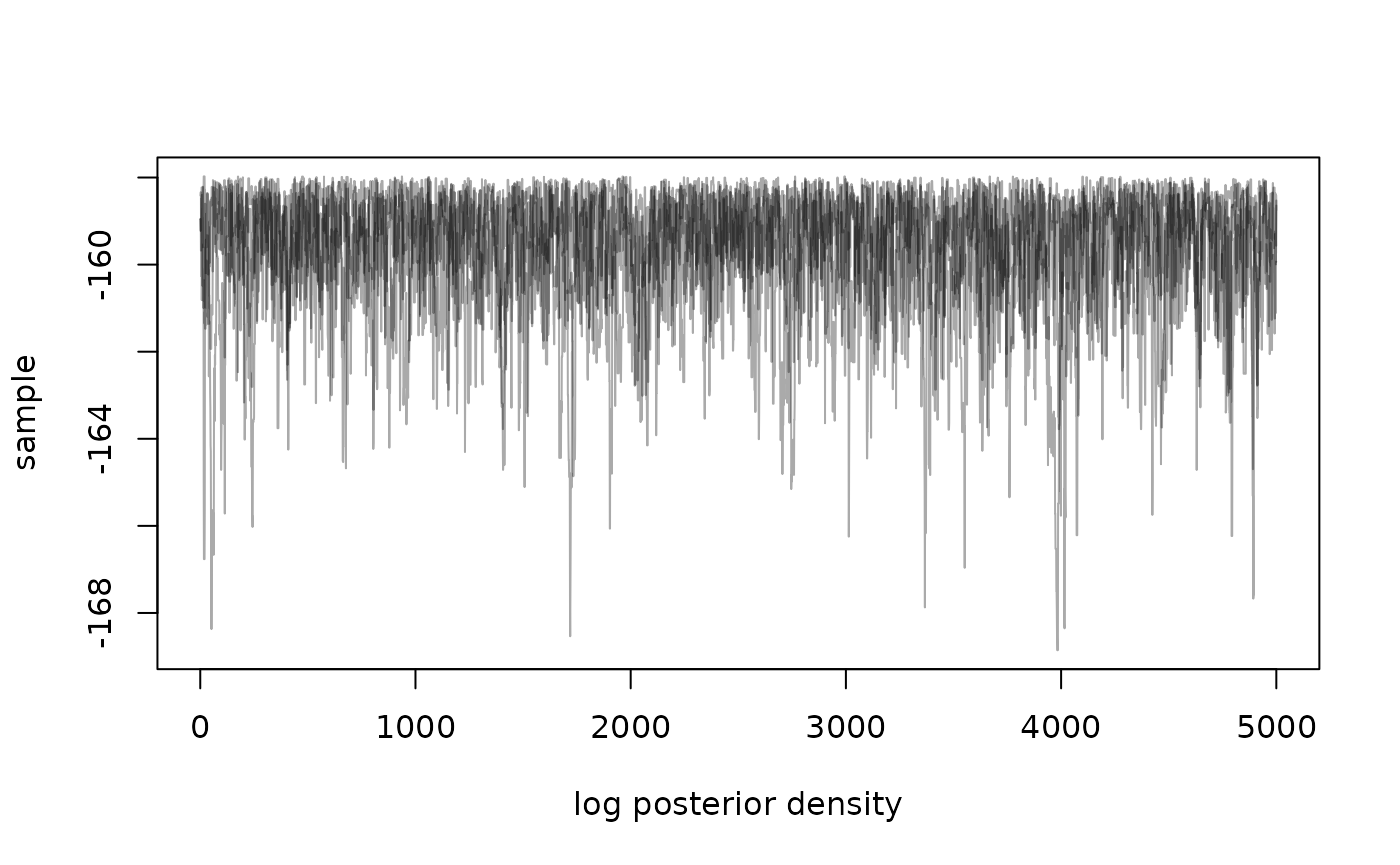
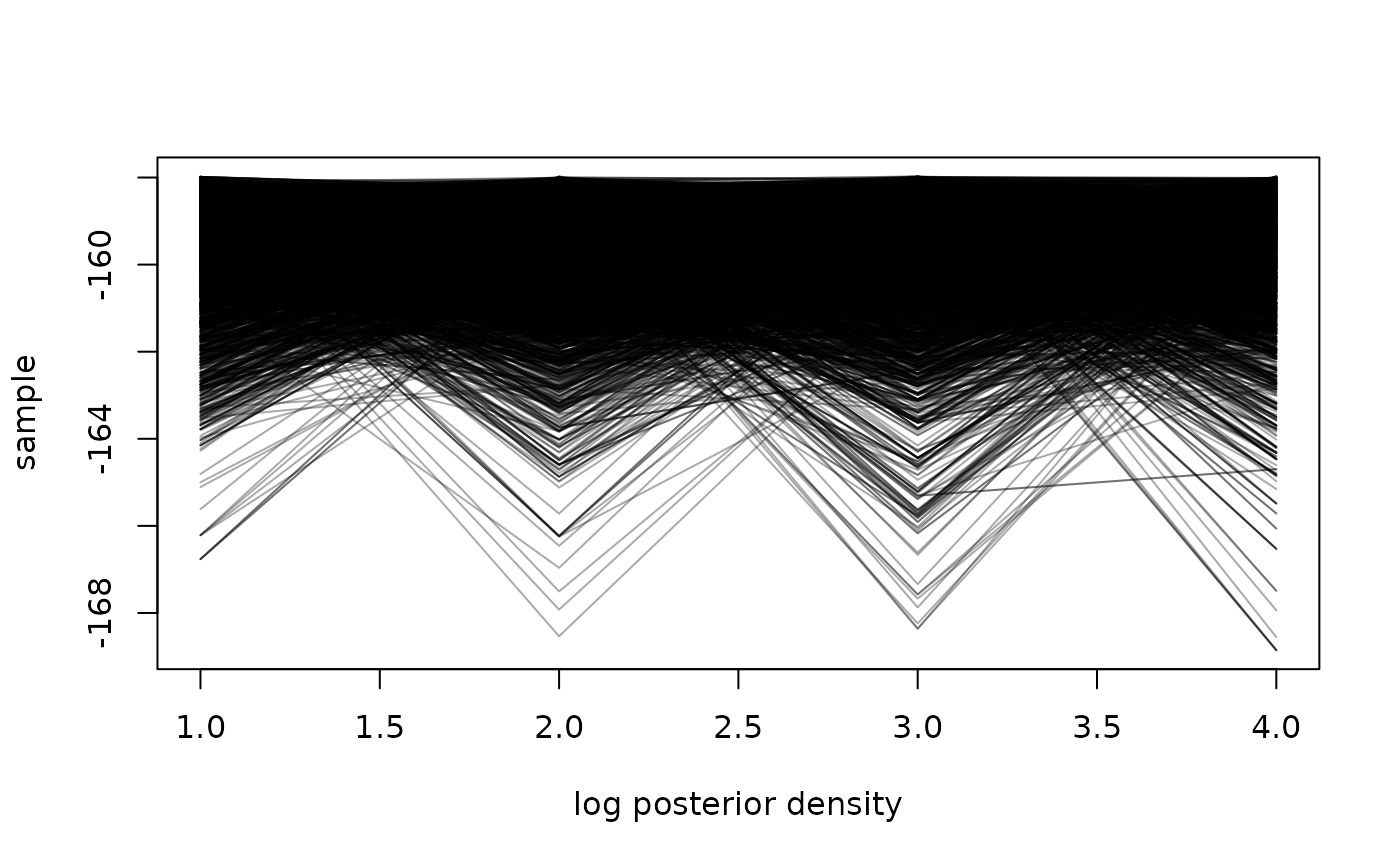
Deploying to gh-pages from @ mrc-ide/mcstate2@cd321ebf984bfb98e90d9a40ece8e2f18095e2ca 🚀

diff --git a/articles/mcstate2.html b/articles/mcstate2.html
@@ -211,17 +211,17 @@ this simple sampler converge quickly:</p>
 <p>We don’t yet have tools for working with the samples objects, but we
 can see the density over time easily enough:</p>
 <div class="sourceCode" id="cb8"><pre class="downlit sourceCode r">
-<code class="sourceCode R"><span><span class="fu"><a href="https://rdrr.io/r/graphics/matplot.html" class="external-link">matplot</a></span><span class="op">(</span><span class="fu"><a href="https://rdrr.io/r/base/matrix.html" class="external-link">matrix</a></span><span class="op">(</span><span class="va">samples</span><span class="op">$</span><span class="va">density</span>, ncol <span class="op">=</span> <span class="fl">4</span><span class="op">)</span>, type <span class="op">=</span> <span class="st">"l"</span>, lty <span class="op">=</span> <span class="fl">1</span>,</span>
+<code class="sourceCode R"><span><span class="fu"><a href="https://rdrr.io/r/graphics/matplot.html" class="external-link">matplot</a></span><span class="op">(</span><span class="fu"><a href="https://rdrr.io/r/base/t.html" class="external-link">t</a></span><span class="op">(</span><span class="va">samples</span><span class="op">$</span><span class="va">density</span><span class="op">)</span>, type <span class="op">=</span> <span class="st">"l"</span>, lty <span class="op">=</span> <span class="fl">1</span>,</span>
 <span>        xlab <span class="op">=</span> <span class="st">"log posterior density"</span>, ylab <span class="op">=</span> <span class="st">"sample"</span>, col <span class="op">=</span> <span class="st">"#00000055"</span><span class="op">)</span></span></code></pre></div>
 <p><img src="mcstate2_files/figure-html/unnamed-chunk-9-1.png" width="700"></p>
 <p>And plots of our estimated parameters:</p>
 <div class="sourceCode" id="cb9"><pre class="downlit sourceCode r">
 <code class="sourceCode R"><span><span class="fu"><a href="https://rdrr.io/r/graphics/par.html" class="external-link">par</a></span><span class="op">(</span>mfrow <span class="op">=</span> <span class="fu"><a href="https://rdrr.io/r/base/c.html" class="external-link">c</a></span><span class="op">(</span><span class="fl">1</span>, <span class="fl">3</span><span class="op">)</span><span class="op">)</span></span>
-<span><span class="fu"><a href="https://rdrr.io/r/graphics/plot.default.html" class="external-link">plot</a></span><span class="op">(</span><span class="fu"><a href="https://rdrr.io/r/stats/density.html" class="external-link">density</a></span><span class="op">(</span><span class="va">samples</span><span class="op">$</span><span class="va">pars</span><span class="op">[</span>, <span class="st">"a"</span><span class="op">]</span><span class="op">)</span>, main <span class="op">=</span> <span class="st">"a"</span><span class="op">)</span></span>
+<span><span class="fu"><a href="https://rdrr.io/r/graphics/plot.default.html" class="external-link">plot</a></span><span class="op">(</span><span class="fu"><a href="https://rdrr.io/r/stats/density.html" class="external-link">density</a></span><span class="op">(</span><span class="va">samples</span><span class="op">$</span><span class="va">pars</span><span class="op">[</span><span class="st">"a"</span>, , <span class="op">]</span><span class="op">)</span>, main <span class="op">=</span> <span class="st">"a"</span><span class="op">)</span></span>
 <span><span class="fu"><a href="https://rdrr.io/r/graphics/abline.html" class="external-link">abline</a></span><span class="op">(</span>v <span class="op">=</span> <span class="fl">114</span>, col <span class="op">=</span> <span class="st">"red"</span><span class="op">)</span></span>
-<span><span class="fu"><a href="https://rdrr.io/r/graphics/plot.default.html" class="external-link">plot</a></span><span class="op">(</span><span class="fu"><a href="https://rdrr.io/r/stats/density.html" class="external-link">density</a></span><span class="op">(</span><span class="va">samples</span><span class="op">$</span><span class="va">pars</span><span class="op">[</span>, <span class="st">"b"</span><span class="op">]</span><span class="op">)</span>, main <span class="op">=</span> <span class="st">"b"</span><span class="op">)</span></span>
+<span><span class="fu"><a href="https://rdrr.io/r/graphics/plot.default.html" class="external-link">plot</a></span><span class="op">(</span><span class="fu"><a href="https://rdrr.io/r/stats/density.html" class="external-link">density</a></span><span class="op">(</span><span class="va">samples</span><span class="op">$</span><span class="va">pars</span><span class="op">[</span><span class="st">"b"</span>, , <span class="op">]</span><span class="op">)</span>, main <span class="op">=</span> <span class="st">"b"</span><span class="op">)</span></span>
 <span><span class="fu"><a href="https://rdrr.io/r/graphics/abline.html" class="external-link">abline</a></span><span class="op">(</span>v <span class="op">=</span> <span class="fl">0.9</span>, col <span class="op">=</span> <span class="st">"red"</span><span class="op">)</span></span>
-<span><span class="fu"><a href="https://rdrr.io/r/graphics/plot.default.html" class="external-link">plot</a></span><span class="op">(</span><span class="fu"><a href="https://rdrr.io/r/stats/density.html" class="external-link">density</a></span><span class="op">(</span><span class="va">samples</span><span class="op">$</span><span class="va">pars</span><span class="op">[</span>, <span class="st">"sigma"</span><span class="op">]</span><span class="op">)</span>, main <span class="op">=</span> <span class="st">"sigma"</span><span class="op">)</span></span>
+<span><span class="fu"><a href="https://rdrr.io/r/graphics/plot.default.html" class="external-link">plot</a></span><span class="op">(</span><span class="fu"><a href="https://rdrr.io/r/stats/density.html" class="external-link">density</a></span><span class="op">(</span><span class="va">samples</span><span class="op">$</span><span class="va">pars</span><span class="op">[</span><span class="st">"sigma"</span>, , <span class="op">]</span><span class="op">)</span>, main <span class="op">=</span> <span class="st">"sigma"</span><span class="op">)</span></span>
 <span><span class="fu"><a href="https://rdrr.io/r/graphics/abline.html" class="external-link">abline</a></span><span class="op">(</span>v <span class="op">=</span> <span class="fl">3</span>, col <span class="op">=</span> <span class="st">"red"</span><span class="op">)</span></span></code></pre></div>
 <p><img src="mcstate2_files/figure-html/unnamed-chunk-10-1.png" width="700"></p>
 </div>

diff --git a/reference/mcstate_sample.html b/reference/mcstate_sample.html
@@ -138,7 +138,9 @@ chains (<code>n_steps * n_chains</code>)</p></li>
 <li><p><code>density</code>: A vector of model log densities, one per step (length
 <code>n_steps * n_chains</code>)</p></li>
 <li><p><code>initial</code>: A record of the initial conditions, a matrix with as
-many columns as you have parameters and <code>n_chains</code> rows</p></li>
+many rows as you have parameters and <code>n_chains</code> columns (this is
+the same format as the matrix form of the <code>initial</code> input
+parameter)</p></li>
 <li><p><code>details</code>: Additional details reported by the sampler; this will
 be a list of length <code>n_chains</code> (or <code>NULL</code>) and the details
 depend on the sampler.  This one is subject to change.</p></li>
